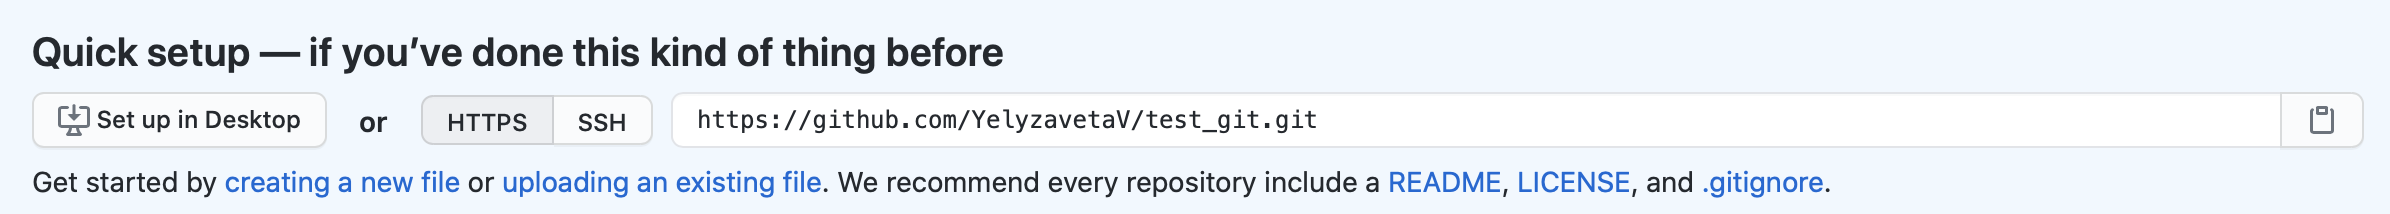
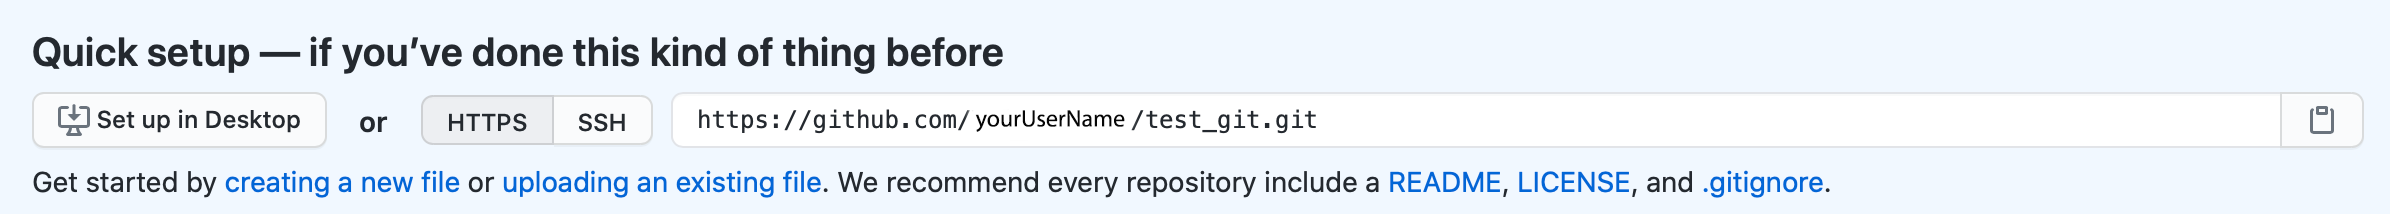
WIP

diff --git a/notebooks/01_Introduction/01_01_ToolkitSetup.md b/notebooks/01_Introduction/01_01_ToolkitSetup.md
@@ -161,18 +161,16 @@ or just close the terminal window if you don't need it anymore.
 [14]: <https://docs.conda.io/projects/conda/en/latest/user-guide/concepts/channels.html> "conda channels"
 [15]: <https://www.latex-project.org> "LaTeX"
 
-
+<!-- #region -->
 ## Get to know Git
 
 ### Installing Git
 
 > [Git][20] is a free and open source distributed version control system designed to handle everything from small to very large projects with speed and efficiency.
 
-This description might be hard to comprehend at the moment, but you will learn better what is Git while working with it. What you have to know right now, is that due to Git, you can easily track the changes made to the project at different stages and compare all of them to each other; you can recover any older version of your project; after all, you can have separate *branches*, each of which stores different version of your project without any conflict between them.
+This description might be hard to comprehend at the moment, but you will learn better what is Git while working with it. What you have to know right now, is that thanks to Git, you can easily track the changes made to a project at different stages and compare all of them to each other; you can recover any older version of your project; furthermore, you can have separate *branches*, each of which stores a different version of your project without any conflict between them. Git is also a great tool for people collaborating on a project. It allows several developpers to work independently on different pieces of code and seemingly merge their contributions.
 
 Before digging deeper into the Git toolkit, let's install it.
-
-Downloading Git is OS-dependant.
 
 * If you're on Windows, you can download Git from the [official website][21] and install it with graphical installer. If, during installation, you choose all the default options, you will have git available in your Anaconda prompt.
 
@@ -184,25 +182,28 @@ Downloading Git is OS-dependant.
 
           git --version
 
-      and it will launch the download and installation.
+      and it will launch the installation.
 
     * Before 10.9 Mavericks
 
-      You have several [options][22]. As it is stated, if you already have *Xcode* installed, then you already have git. If not, we propose you to stick to the *Homebrew* option, as it's the most practical way to go, probably.
+      You have several [options][22]. If you already have *Xcode* installed, then you already have git. If not, we propose you to stick to the *Homebrew* option, as it's probably the most practical way to go.
 
-        Homebrew package manager is very easy to use, and provides access to the plenty of useful stuff - Firefox, GNU compiler, Qt and many many others.
+        Homebrew package manager is very easy to use, and provides access to plenty of useful stuff - Firefox, GNU compiler, Qt and many many others.
 
-        To install Homebrew, visit [official website][23], and then just run:
+        To install Homebrew, visit the [official website][23], and then just run:
 
             brew install git
+            
+        after the installation.
 
   Voilà, you are good to go.
 
-* If you are on Linux, you have even [more options][24]. We propose, you simply run
+* If you are on Linux, you have even [more options][24]. We propose you simply run
 
       apt-get install git
 
-Check that Git is installed by running
+
+In all cases, check that Git is installed by running
 
     git --version
 
@@ -212,7 +213,7 @@ Output example:
 
 ### Basic usage
 
-Now let's duscus the basic concepts of Git. For the better understanding we encourage you to create a temporary empty directory. We will make it our first Git project. Let's call it *test_git*.
+Now let's discuss the basic concepts of Git. Create a temporary empty directory (choose a convenient place in your computer). We will make it our first Git project. Let's call it *test_git*.
 
 So, we run:
 
@@ -221,11 +222,11 @@ So, we run:
 
 #### Git repositories
 
-The whole project with all the history of changes and all the separate branches is stored in so-called *Git repository*. To create a repository, you, having Git installed, simply declare some directory containg your project a Git repository - initialize it. This actions creates a *local* Git repository, meaning that it only exist on your work machine.
+The whole project with all the history of changes and all the separate branches is stored in so-called *Git repository*. To create a repository, you have to `initialize` git in the directory containing your project. This creates a *local* Git repository, meaning that it currently only exist on your work machine.
 
-##### Creating local Git repository
+##### Creating a local Git repository
 
-In order to initialize existing local directory as a Git repository, run:
+In order to initialize an existing local directory as a Git repository, run:
 
     git init
 
@@ -233,19 +234,19 @@ You'll get the following output:
 
     Initialized empty Git repository in /path/to/test_git/.git/
 
-As it is nicely explained in [here][25], once created, each local Git repo contains three abstract zones:
+As it is nicely explained [here][25], once created, each local Git repo(sitory) contains three abstract zones:
 
 * Working space
 
-  Includes all the components of your project in a current state.
+  Includes all the components of your project in their current states.
 
 * Staging area
 
-  Imagine now you've introduced some modification to the state of your project, which is last one you saved. The files, which get modified, go to the staging area.
+  Imagine now you've introduced some modification to the state of your project, which was the last one you saved. The files, which you want to update as part of your project's history go to the staging area (after committing)
 
 * Commit area
 
-  Commiting your modification is a way to create a snapshot of the current, newly modified state of your project. Once you've commited your changes, the modified files go to the commit area.
+  Commiting your modification is a way to create a snapshot of the current, newly modified state of your project. Once you've commited your changes, the modified files are now saved in the history of your project.
 
 Let's add a README.md file to our repo. If you're on MacOS/Linux:
 
@@ -255,68 +256,75 @@ If you're on Windows:
 
     type nul > README.md
 
-Now let's learn how to create commits. First, you tell what are the files you want to commit:
+Add some content to the README.md file (whathever you want) and save your modifications.
+
+Now let's learn how to create commits. First, you tell what files to commit:
 
     git add README.md
+
+The changes to README.md are now contained in the staging area.
 
 If you run
 
     git add *
 
-then all files, which are in a staging area, will be added for the further commit. It is not a very clean way to go, as you might commit the files, which get updated at each compilation, and don't need to be tracked, like those stored in .ipynb_checkpoints directory, or object files with extension .o, etc.
+then all files which are new or modified will be put in the staging area for potential further commit. It is not a very clean way to go, as you might commit files which get updated at each compilation, and don't need to be tracked, like those stored in .ipynb_checkpoints directory, or object files with extension .o, etc. So always stick to always use the git add function on specific files.
 
 We are ready to commit. Each commit has to be supplemented with a message:
 
     git commit -m "First commit"
 
+You have now recorded in your git history the initial modifications of the README.md file. All the information sits locally on your computer. But we also want to be able to share our work and collaborate on projects (here we also mean being able to send your homeworks to the teaching team !).
+
+
 ##### Creating remote Git repository
 
 > To be able to collaborate on any Git project, you need to know how to manage your remote repositories. [Remote repositories][26] are versions of your project that are hosted on the Internet or network somewhere.
 
-Another reason to keep your data in a remote repo is for the sake of safety. If your computer gets broken, stolen, you accidentally remove the project's folder, then you loose all the local data. But if you kept it in a remote repo and updated it regularly, then you recover your whole progress from any other machine.
+Another reason to keep your data in a remote repo is for the sake of safety. If your computer gets broken, stolen or you accidentally remove the project's folder, then you'll loose all the local data. But if you keep it in a remote repo and update it regularly, then you can recover your whole progress from any other machine.
 
-There are different services which allow to create and manage remote Git repository. Throughout the course we will use GitHub.com. It is easy to use and free. Generally speaking, GitHub is a Git repository hosting service. Let's create our first remote repo on GitHub.
+There are different services which allow to create and manage remote Git repositories. Throughout the course we will use GitHub.com. It is easy to use and free. Generally speaking, GitHub is a Git repository hosting service. Let's create our first remote repo on GitHub.
 
-If you don't have GitHub account, you will have to go to GitHub.com and create one. GitHub has its graphical interface providing you a possibility to download files to the repository, create branches, see changes in the latest commit etc. For some purposes GitHub interface might be quite convenient, but we advice you against uploading files via GitHub. It would make the whole idea of Git meaningless, and ultimately lead you to storing multiple versions of your project at the same time. We suggest you learn, how to update your project over time and keep control over the evolutionary tree of all the changes you make.
+If you don't have GitHub account, you will have to go to GitHub.com and create one. GitHub has a graphical interface allowing you to download files to the repository, create branches, see changes in the latest commit etc. For some purposes, the GitHub interface might be quite convenient, but we advise you against uploading files directly via GitHub. It would make the whole idea of Git meaningless, and ultimately lead you to storing multiple versions of your project at the same time. We suggest that you learn how to update your project over time and keep control over the evolutionary tree of all the changes you make.
 
 In order to create new GitHub repository, click on *New*:
 <img src="../figures/CreateRepo.png">
 
-Choose name for your repository and set some description. You can make it either public - so that anyone will be able to see it - or private - only the ones you invite as collaborators will be able to see it. Click on *Create repository*.
+Choose a name for your repository and set some description. You can make it either public - so that anyone will be able to see it - or private - only the ones you invite as collaborators will be able to see it. Click on *Create repository*.
 <img src="../figures/CreateRepoSet.png">
 
-Then you will actually see a small tutorial from GitHub, how you can connect your newly created remote repo to the local one.
+Let's go through a small tutorial describing how you can connect your newly created remote repo to the local one.
 
-To see, what are the current remote repositories tracked from your local repository, run
+To see, what are the current remote repositories tracked from your local repository, run the following terminal command in your local repository
 
     git remote
 
 Of course, this command will output nothing, as we have not yet added any remotes.
 
-Copy url of your remote repo. Make sure you've chosen HTTPS format, especially if you have never used SSH.
+Copy the url of your remote repo. Make sure you've chosen HTTPS format, especially if you have never used SSH.
 <img src="../figures/CopyURL.png">
 
-Now go back to the terminal window and type:
+Now go back to the terminal window and type (*replace `yourUserName` with your actual Github username*):
 
-    git remote add origin https://github.com/YelyzavetaV/test_git.git
+    git remote add origin https://github.com/yourUserName/test_git.git
 
 If you then run
 
     git remote
 
-It'll output `origin`, which is the name we've assigned to our remote.
+it will output `origin`, which is the name we've assigned to our remote.
 
 Now you should be able to run
 
     git push -u origin master
 
-The normal output would look as follows:
+The normal output should look as follows:
 
     Enumerating objects: 3, done.
     Counting objects: 100% (3/3), done.
     Writing objects: 100% (3/3), 224 bytes | 224.00 KiB/s, done.
     Total 3 (delta 0), reused 0 (delta 0)
-    To https://github.com/YelyzavetaV/test_git.git
+    To https://github.com/yourUserName/test_git.git
     * [new branch]      master -> master
     Branch 'master' set up to track remote branch 'master' from 'origin'.
 
@@ -430,6 +438,7 @@ If .bashrc isn't there, it is possible that it has a different name - .zshrc, fo
 Add `export PATH=/path/to/anaconda3/bin:$PATH` to your .bashrc and save it. To get it working either open new terminal window, or run `source .bashrc` in the one, which is opened.
 
 Now `jupyter notebook` command should work.
+<!-- #endregion -->
 
 ```python
 from IPython.core.display import HTML
